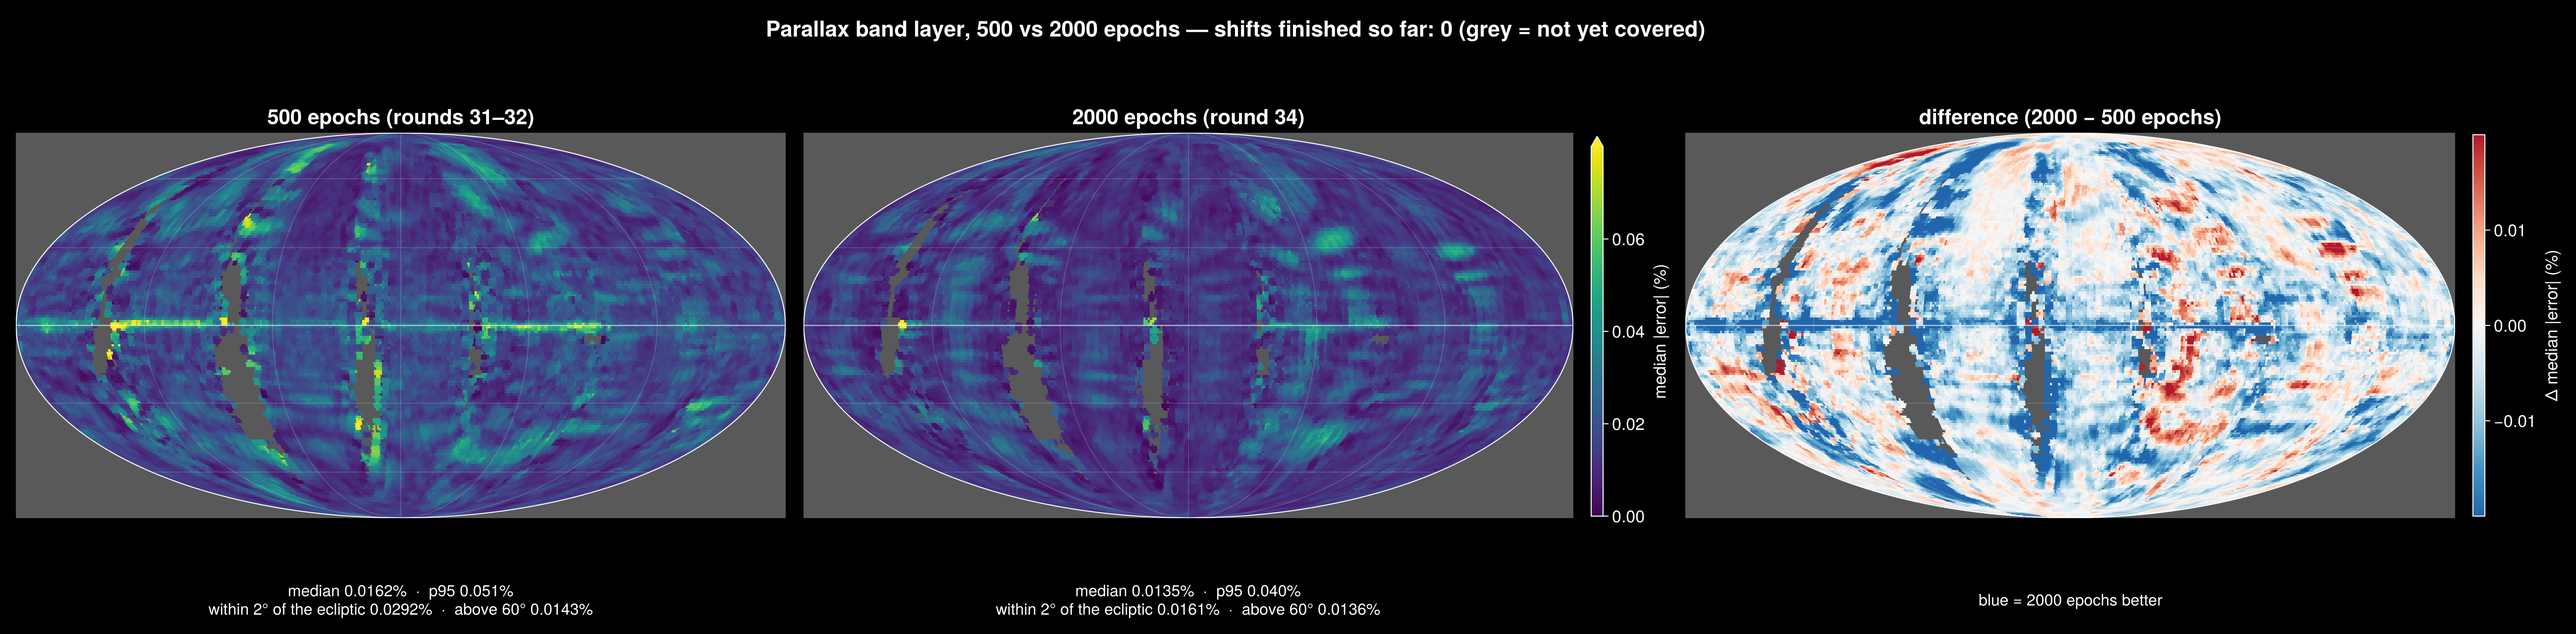
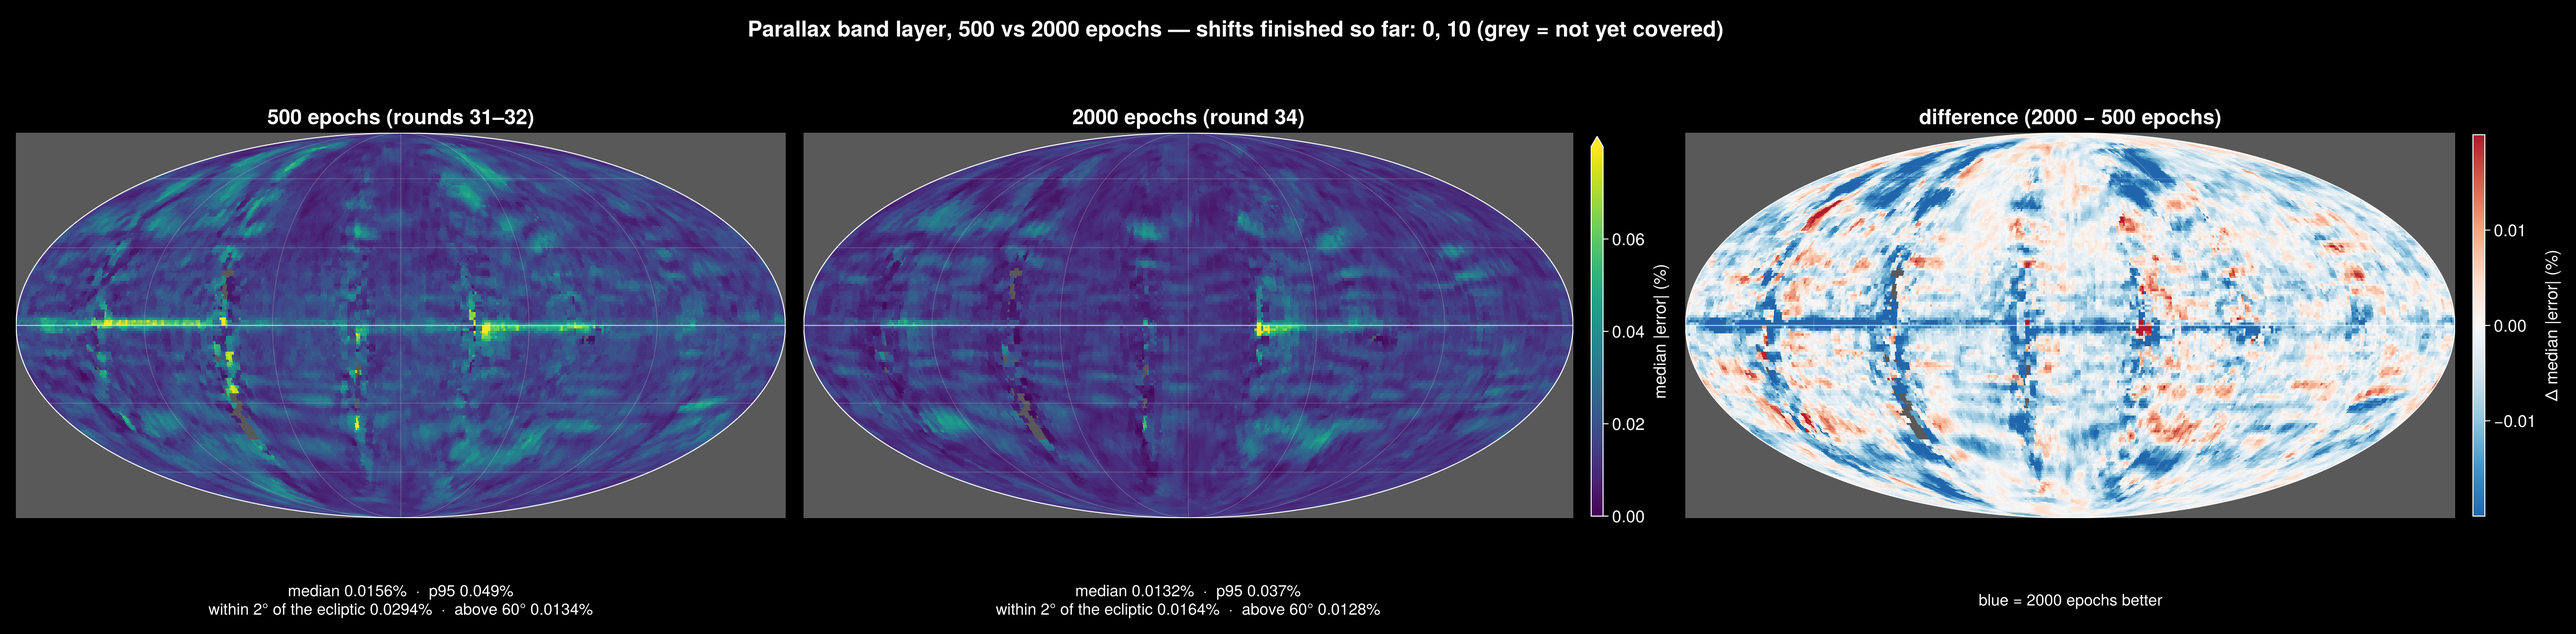
Round 34 shifts 0+10: notebook 10242026
Claude-Session: https://claude.ai/code/session_012rGthNAyzBgnDfYXWSYd8K

diff --git a/notebooks/README.md b/notebooks/README.md
@@ -18,6 +18,7 @@ tested top to bottom with `julia --project=. sweeps/test_nb.jl <MMDDYYYY>.ipynb`
 | 10142026_multiwavelength.ipynb | Multi-wavelength emulator, 1.25–5 μm (round 13–15) |
 | 10152026.ipynb | Shifted 30-day windows, train + test MSE, out-of-sample sky-error map (round 16) |
 | 10172026.ipynb | Loss curves and why they are jagged, smoothing, 80/20 at 300 epochs, error vs time gap, trailing-feature check, month splits at 300 epochs (rounds 17–20) |
+| 10242026.ipynb | Parallax band layer trained 2000 vs 500 epochs: first 2 of 6 shifts, loss curves, partial sky map (round 34) |
 | 10232026.ipynb | Parallax dust-band layer, the full 500-day sky map with it (ecliptic 0.050% → 0.0285%), fitted band parameters, the mentor's Earth-centric null test (rounds 31–33) |
 | 10222026.ipynb | Heliocentric default, the full heliocentric 500-day sky map, the learnable dust-band layer (rounds 29–30) |
 | 10212026.ipynb | Heliocentric 500-day sky map, the Jupiter null experiment, comparison with the mentor's onboarding plan, poster review (rounds 27–28) |

diff --git a/STATUS.md b/STATUS.md
@@ -1,5 +1,5 @@
 # More_zodi status
-Updated: 2026-10-24 04:30, DESKTOP-BBASC81
+Updated: 2026-10-24 15:30, DESKTOP-BBASC81
 
 ## Headline
 A learnable dust-band layer with parallax is now the best 500-day model: on the full 6-shift sky map it cuts the error
@@ -42,6 +42,8 @@ epochs** (vs 500), all 6 shifts × 5 seeds, ~11 h per shift: shift 0 ~03:30 Sat,
 30 ~12:30 Sun, 40 ~23:30 Sun, 50 ~10:30 Mon. Progress: sweeps/report34.jl → figures/r34_progress_{loss,sky}.png.
 - Shift 0 (poster split) done 04:05 Sat — **big gain**: ecliptic 0.0292% → **0.0161%**, median 0.0162% → **0.0135%**,
   p95 0.051% → 0.040%, ensemble MSE 2.44e-8 → 1.47e-8; final train/test MSE 7.1e-9 / 1.8e-8, test still falling.
+- Shift 10 done 15:00 Sat (MSE 2.37e-8 → 1.48e-8). Sky map, shifts 0 + 10: ecliptic 0.0294% → 0.0164%, median
+  0.0156% → 0.0132%, p95 0.049% → 0.037%. Notebook: notebooks/10242026.ipynb.
 
 ## Waiting on user
 nothing.
